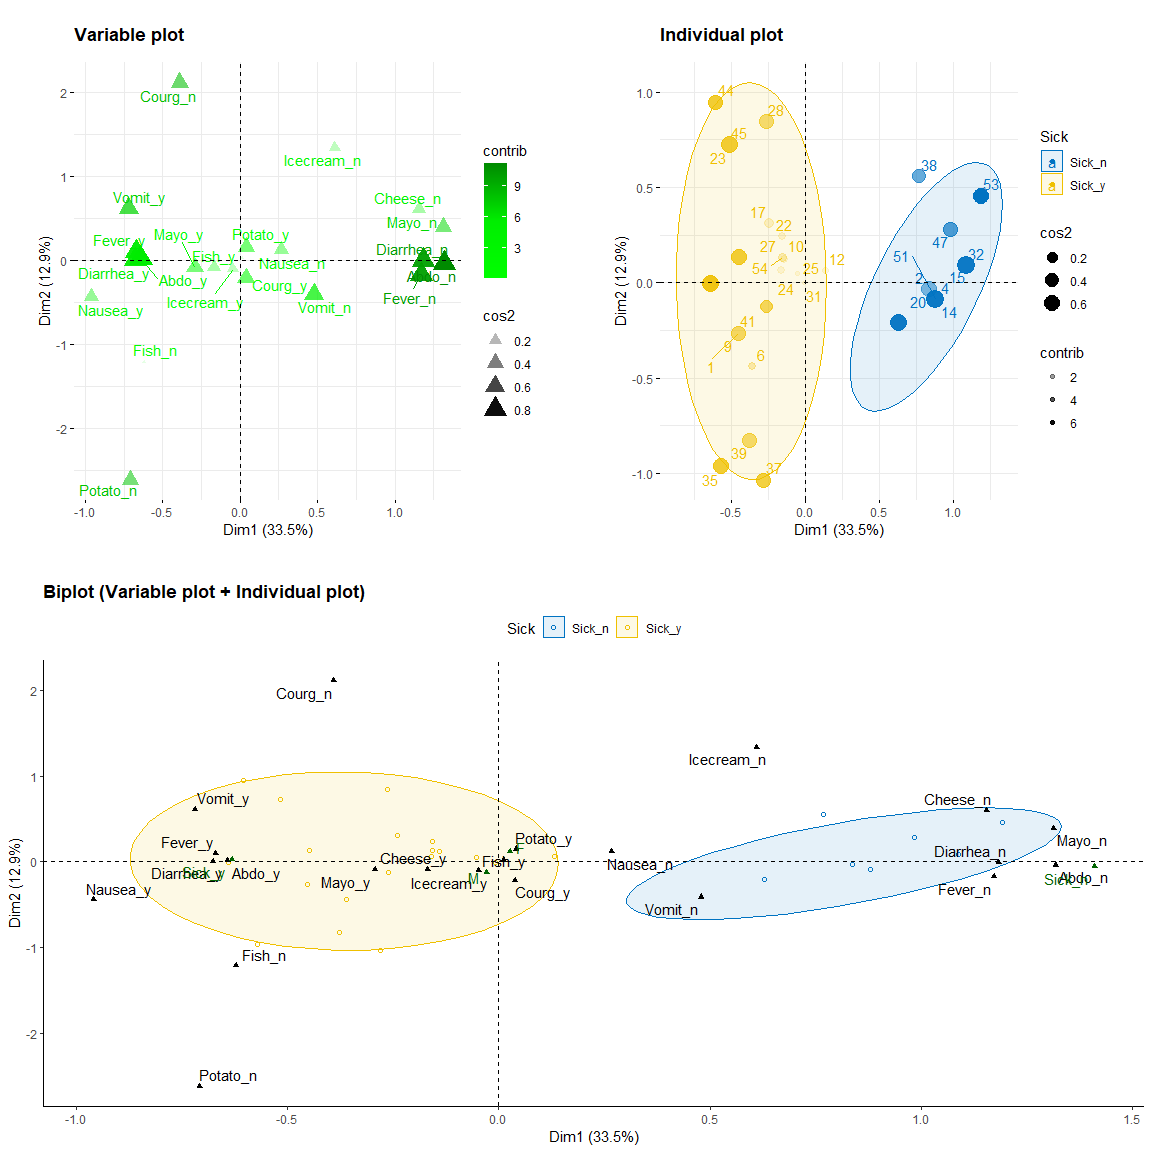
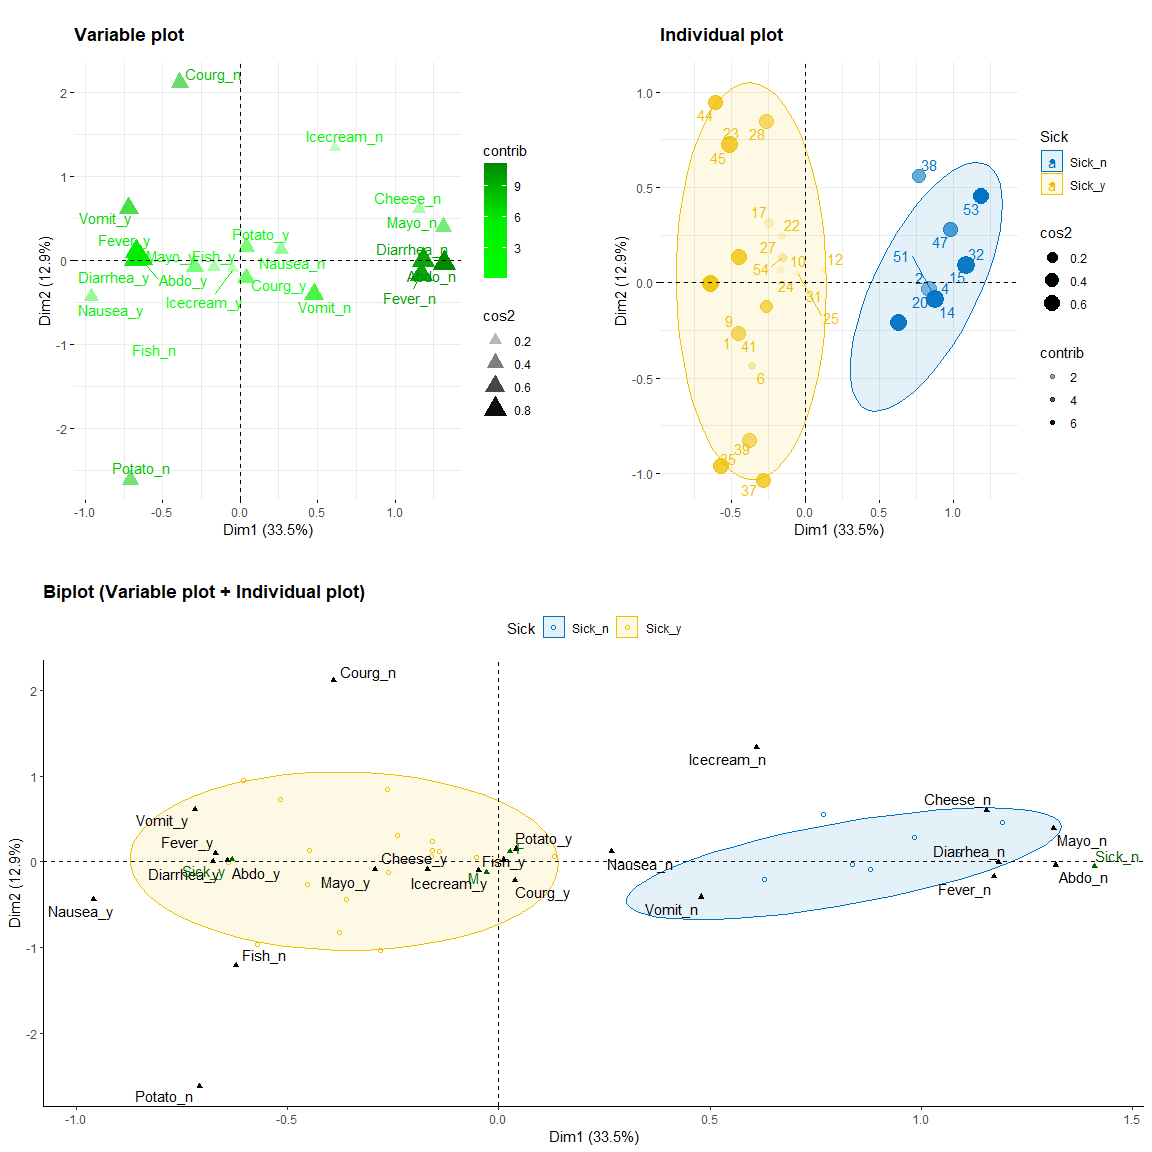
finalise

diff --git a/poison.md b/poison.md
@@ -72,27 +72,27 @@ sample_n(poison, 10)
 ```
 
     ##    Age Time   Sick Sex   Nausea Vomiting Abdominals   Fever   Diarrhae   Potato
-    ## 16   6    6 Sick_y   F Nausea_n  Vomit_y     Abdo_y Fever_y Diarrhea_y Potato_y
-    ## 50   7   22 Sick_y   F Nausea_n  Vomit_n     Abdo_y Fever_y Diarrhea_y Potato_y
-    ## 23   8   21 Sick_y   F Nausea_n  Vomit_y     Abdo_y Fever_y Diarrhea_y Potato_y
-    ## 15   8    0 Sick_n   M Nausea_n  Vomit_n     Abdo_n Fever_n Diarrhea_n Potato_y
+    ## 32   6    0 Sick_n   M Nausea_n  Vomit_n     Abdo_n Fever_n Diarrhea_n Potato_y
+    ## 53   6    0 Sick_n   F Nausea_n  Vomit_n     Abdo_n Fever_n Diarrhea_n Potato_y
+    ## 2    5    0 Sick_n   F Nausea_n  Vomit_n     Abdo_n Fever_n Diarrhea_n Potato_y
+    ## 49   8    0 Sick_n   F Nausea_n  Vomit_n     Abdo_n Fever_n Diarrhea_n Potato_y
     ## 47  10    0 Sick_n   M Nausea_n  Vomit_n     Abdo_n Fever_n Diarrhea_n Potato_y
-    ## 41   4   12 Sick_y   M Nausea_y  Vomit_n     Abdo_y Fever_y Diarrhea_y Potato_y
-    ## 45   5   20 Sick_y   M Nausea_n  Vomit_y     Abdo_y Fever_y Diarrhea_y Potato_y
-    ## 11   7   17 Sick_y   F Nausea_y  Vomit_y     Abdo_y Fever_y Diarrhea_y Potato_y
-    ## 1    9   22 Sick_y   F Nausea_y  Vomit_n     Abdo_y Fever_y Diarrhea_y Potato_y
-    ## 24  11   13 Sick_y   M Nausea_n  Vomit_y     Abdo_y Fever_n Diarrhea_y Potato_y
+    ## 51  10    0 Sick_n   M Nausea_n  Vomit_n     Abdo_n Fever_n Diarrhea_n Potato_y
+    ## 4    9    0 Sick_n   F Nausea_n  Vomit_n     Abdo_n Fever_n Diarrhea_n Potato_y
+    ## 6   72    9 Sick_y   M Nausea_n  Vomit_n     Abdo_y Fever_y Diarrhea_y Potato_y
+    ## 46   6   16 Sick_y   M Nausea_n  Vomit_n     Abdo_y Fever_y Diarrhea_y Potato_y
+    ## 31   9    9 Sick_y   F Nausea_n  Vomit_n     Abdo_y Fever_y Diarrhea_y Potato_y
     ##      Fish   Mayo Courgette   Cheese   Icecream
-    ## 16 Fish_y Mayo_y   Courg_y Cheese_y Icecream_y
-    ## 50 Fish_y Mayo_y   Courg_y Cheese_y Icecream_y
-    ## 23 Fish_y Mayo_y   Courg_n Cheese_y Icecream_y
-    ## 15 Fish_y Mayo_n   Courg_y Cheese_n Icecream_y
+    ## 32 Fish_y Mayo_n   Courg_y Cheese_n Icecream_y
+    ## 53 Fish_y Mayo_n   Courg_y Cheese_n Icecream_n
+    ## 2  Fish_y Mayo_y   Courg_y Cheese_n Icecream_y
+    ## 49 Fish_y Mayo_y   Courg_y Cheese_y Icecream_y
     ## 47 Fish_y Mayo_n   Courg_y Cheese_y Icecream_n
-    ## 41 Fish_y Mayo_y   Courg_y Cheese_y Icecream_y
-    ## 45 Fish_y Mayo_y   Courg_n Cheese_y Icecream_y
-    ## 11 Fish_y Mayo_y   Courg_y Cheese_y Icecream_y
-    ## 1  Fish_y Mayo_y   Courg_y Cheese_y Icecream_y
-    ## 24 Fish_y Mayo_y   Courg_y Cheese_y Icecream_y
+    ## 51 Fish_y Mayo_n   Courg_y Cheese_y Icecream_y
+    ## 4  Fish_y Mayo_n   Courg_y Cheese_y Icecream_y
+    ## 6  Fish_n Mayo_y   Courg_y Cheese_y Icecream_y
+    ## 46 Fish_y Mayo_y   Courg_y Cheese_y Icecream_y
+    ## 31 Fish_y Mayo_n   Courg_y Cheese_y Icecream_y
 
 ### 3.2 Data Exploration
 
